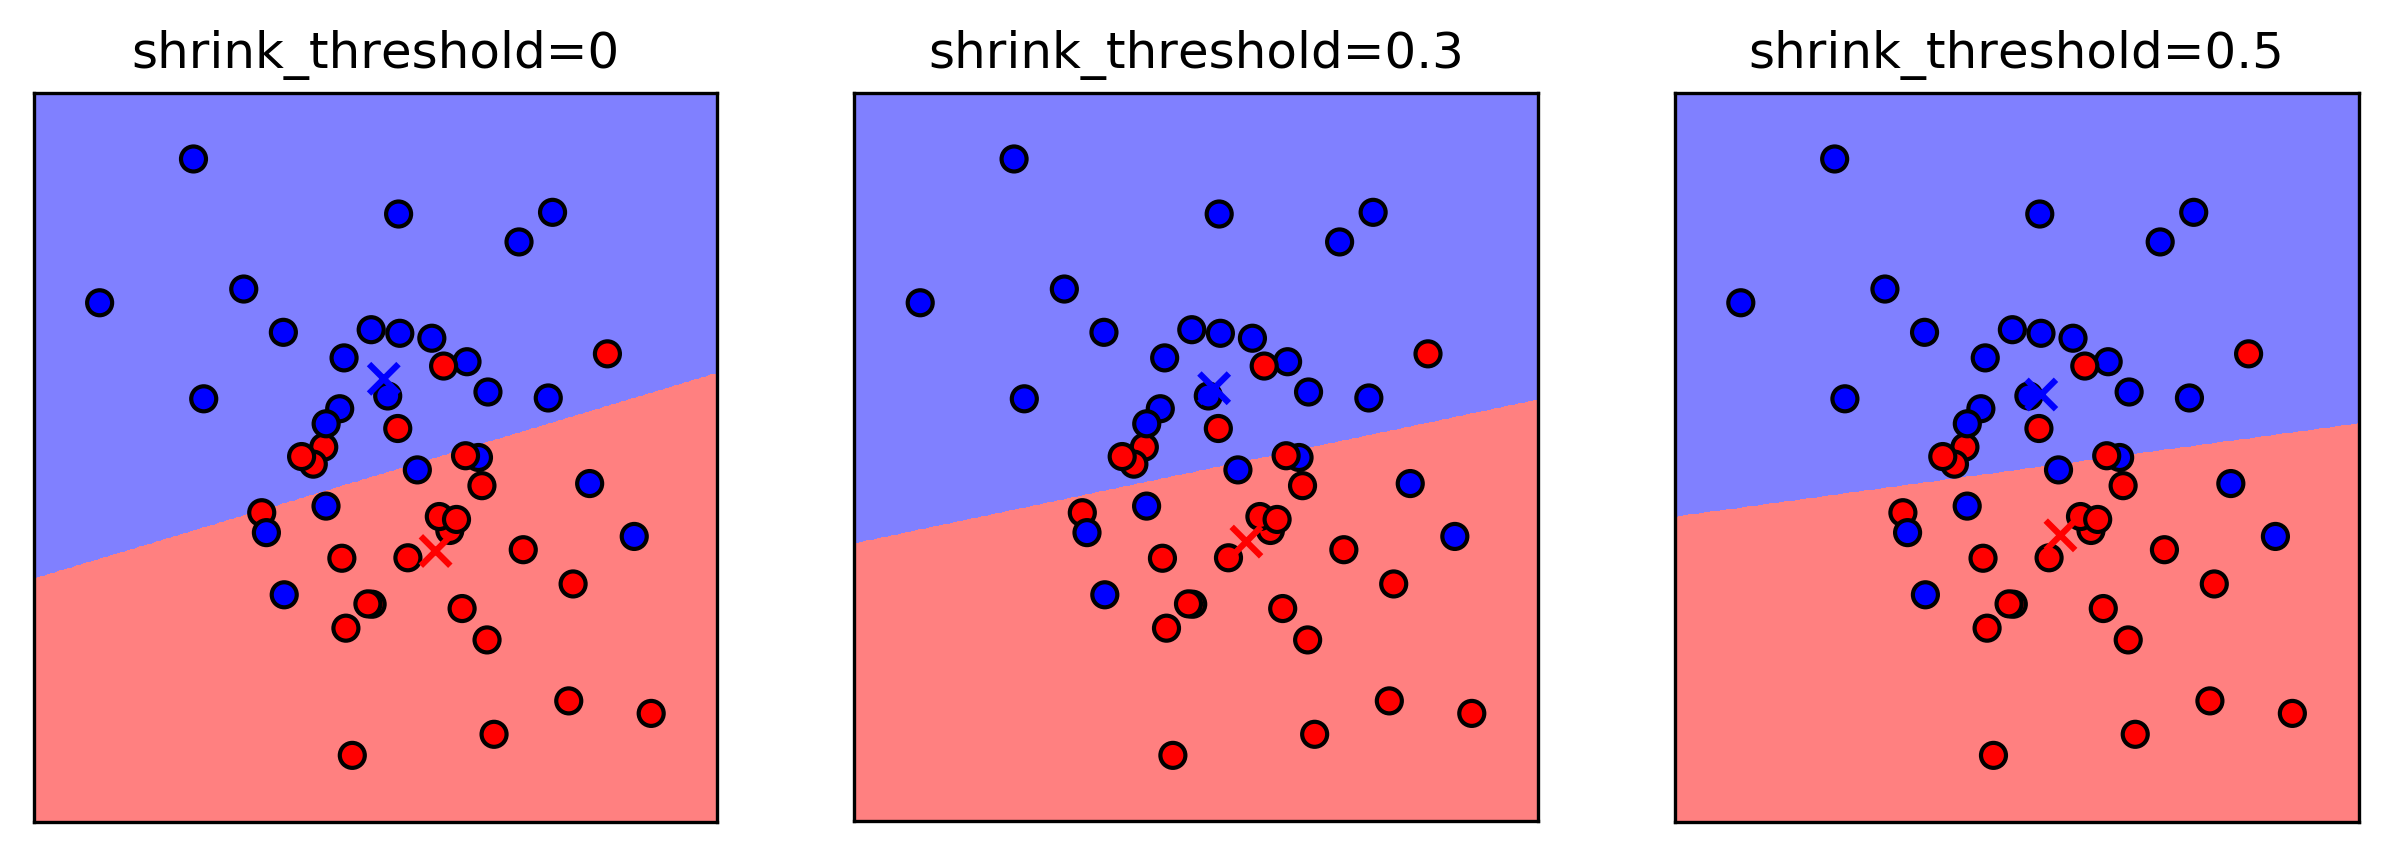
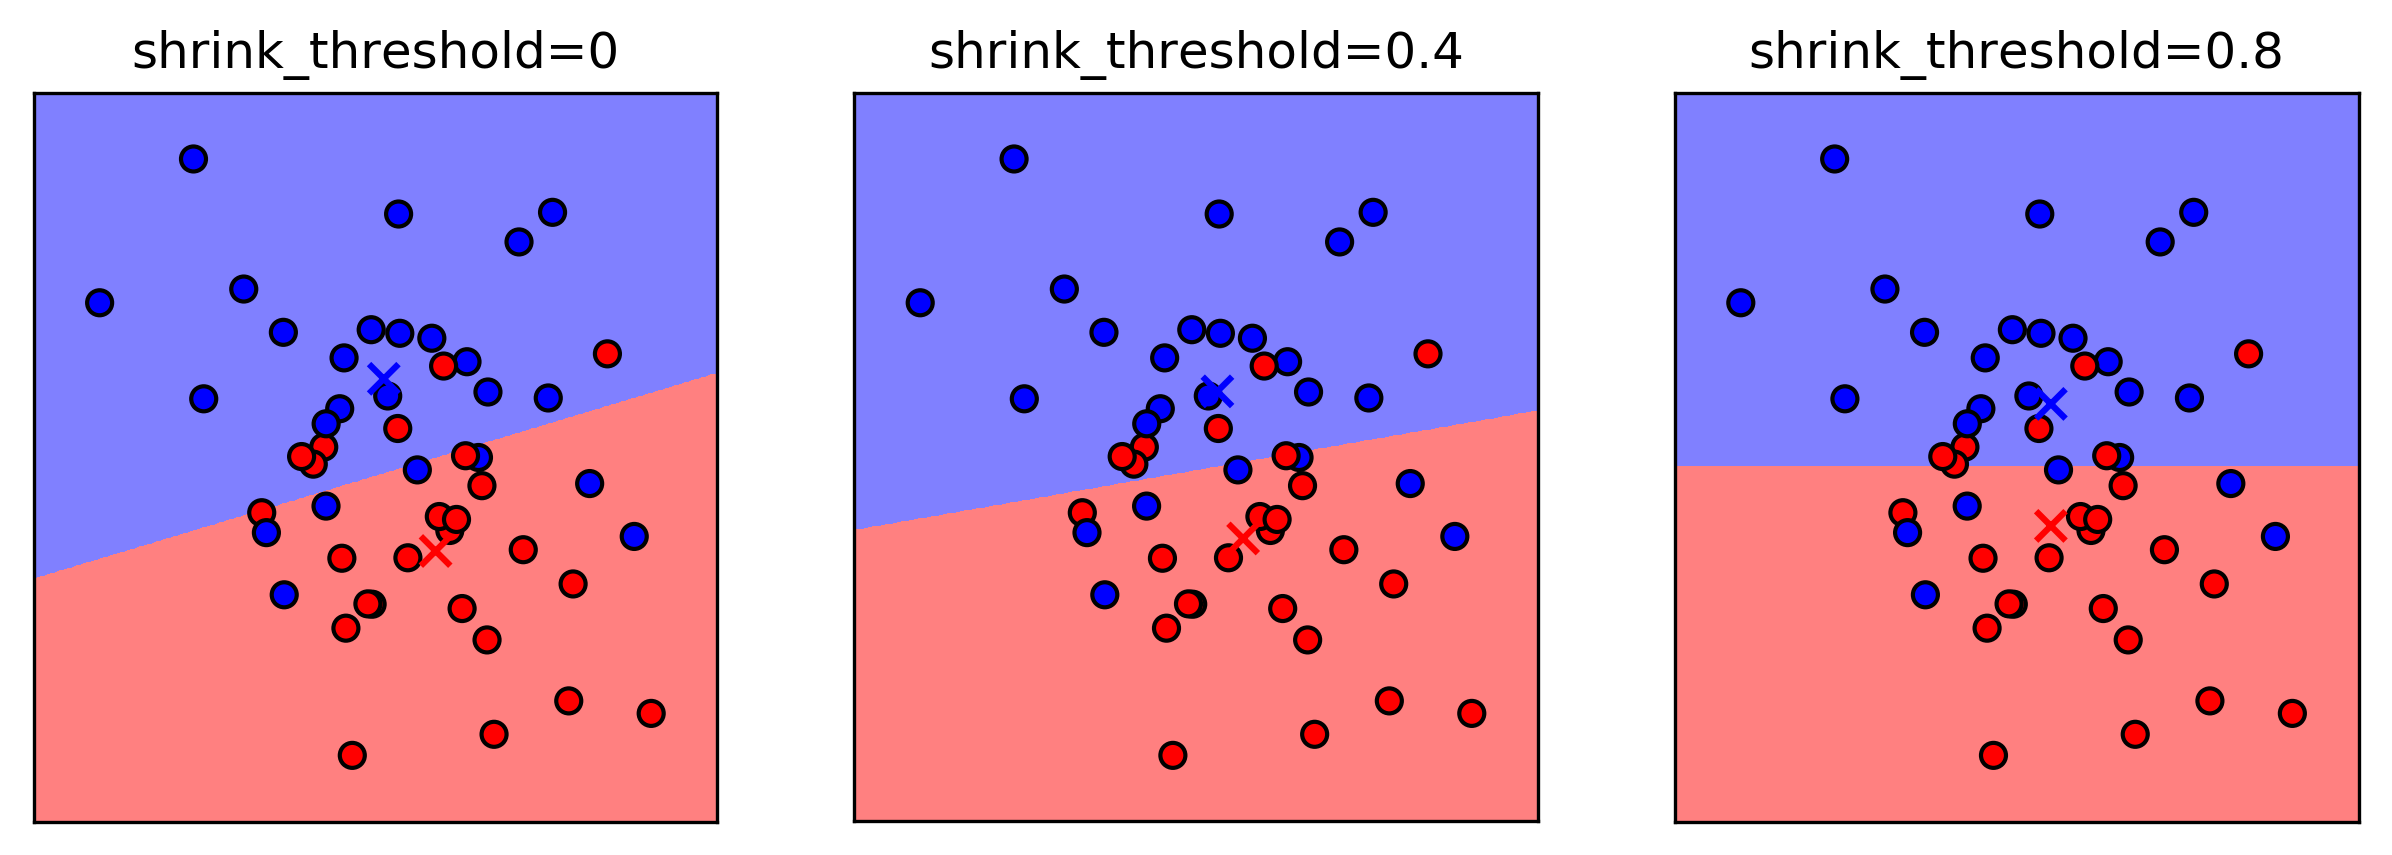
update image, some fixes for slide notes

diff --git a/slides/aml-04-012918-supervised-learning/index.html b/slides/aml-04-012918-supervised-learning/index.html
@@ -109,6 +109,9 @@
           float: left;
           width: 65%
       }
+      .invisible {
+          visibility: hidden
+      }
 
       .remark-code, .remark-inline-code { font-family: 'Ubuntu Mono'; }
     </style>
@@ -256,6 +259,7 @@ from sklearn.neighbors import KNeighborsClassifier
 knn = KNeighborsClassifier(n_neighbors=1)
 knn.fit(X_train, y_train)
 print("accuracy: {:.2f}".format(knn.score(X_test, y_test)))
+y_pred = knn.predict(X_test)
 ```
 accuracy: 0.77
 
@@ -274,16 +278,23 @@ such as here saying that we only want to look at the neirest neighbor.
 
 Then we can call the fit method to build the model, here knn.fit(X_train,
 y_train)
-All models in scikit-learn have a fit-method, and all the supervised
-ones take the data X and the outcomes y. The fit method builds the
-model and stores any estimated quantities in the model object, here knn.
-
+All models in scikit-learn have a fit-method, and all the supervised ones take
+the data X and the outcomes y. The fit method builds the model and stores any
+estimated quantities in the model object, here knn.  In the case of nearest
+neighbors, the `fit` methods simply remembers the whole training set.
 
 Then, we can use knn.score to make predictions on the test data, and
 compare them against the true labels y_test.
 
 For classification models, the score method will always compute
-accuracy. Who here has not seen this before?
+accuracy. 
+
+Just for illustration purposes, I also call the predict method here.
+The predict method is what's used to make predictions on any dataset.
+If we use the score method, it calls predict internally and then
+compares the outcome to the ground truth that's provided.
+
+Who here has not seen this before?
 ---
 class: center
 
@@ -349,8 +360,6 @@ If we increase the number of neighbors, the boundary between red and
 blue simplifies, and with 40 neighbors we mostly end up with a line.
 This also means that now many of the training data points would be
 labeled incorrectly.
-
-This is a very typical behavior, that I sketched in a schematic for you.
 ---
 class: center, spacious
 
@@ -368,6 +377,8 @@ You can see that for a single neighbor, the training score is 1 so perfect
 accuracy, but the test score is only 70%.  If we increase the number of
 neighbors we consider, the training score goes down, but the test score
 goes up, with an optimum at 19 and 21, but then both go down again.
+
+This is a very typical behavior, that I sketched in a schematic for you.
 ---
 class: center, spacious
 # Overfitting and Underfitting
@@ -375,7 +386,7 @@ class: center, spacious
 ![:scale 80%](images/overfitting_underfitting_cartoon_train.png)
 
 ???
-There is a cartoon version of how this chart looks in general, though
+here is a cartoon version of how this chart looks in general, though
 it's horizontally flipped to the one with saw for knn.
 This chart has accuracy on the y axis, and the abstract concept of model
 complexity on the x axis.
@@ -412,10 +423,12 @@ So going back to nearest neighbors, what parameters correspond to high
 model complexity and what to low model complexity? high n_neighbors =
 low complexity!
 ---
-class: center, spacious
+class: center
 # Nearest Centroid
 
-![:scale 40%](images/nearest_centroid_boundary.png)
+![:scale 35%](images/nearest_centroid_boundary.png)
+
+$$f(x) = \text{argmin}_{i \in Y} ||\bar{x}_i - x||$$
 
 ???
 Before we go to more techniques to find the right hyper parameters,
@@ -450,6 +463,8 @@ We use the train_test_split function to split the data into 75% training
 and 25% test data,
 import the nearest centroid model, fit it on the training set, and
 compute the accuracy on the test set.
+In this case, the fit method computes the mean or centroid of each class
+and stores it in the nc object, while for prediction 
 
 Questions so far?
 ---
@@ -474,21 +489,13 @@ makes sense ;)
 What that means is that if the centroids have an entry that is close to
 zero, this direction gets ignored.
 Here you can see different settings of the shrinking threshold. No
-shrinking, a threshold of .3 and a threshold of .5.
+shrinking, a threshold of .4 and a threshold of .8.
 Because the centers are less than .5 apart from the data mean, the last
 panel has a perfectly horizontal line.
 
 When do you think NC works better than KNN? High dimensions!
 ---
 # Computational Properties Centroids
-
-- fit: O(n * p)
-- memory: O(n_classes * p)
-- predict: O(n_classes * p)
-
-n = n_samples
-p = n_features
-
 ???
 I want to compare some computational properties of the nearest shrunken
 centroid and k nearest neighbors.
@@ -505,6 +512,51 @@ is computing the distance to each of them, which is the same. When is
 this slow? Basically never - in high dim with only few important, maybe
 trees could be better, but we could also shrink those dimensions away.
 
+--
+
+- fit: O(n * p)
+- memory: O(n_classes * p)
+- predict: O(n_classes * p)
+
+n = n_samples
+p = n_features
+
+---
+# Computational Properties Neighbors
+.left-column[
+## Naive
+- fit: no time
+- memory: O(n * p)
+- predict: O(n * p)
+]
+.invisible[.right-column[
+## Kd-tree
+- fit: O(p * n log n)
+- memory: O(n * p)
+- predict:
+- O(k * log(n))<br />
+  FOR FIXED p!
+]]
+.reset-column[
+n=n_samples
+p=n_features
+]
+
+???
+Ok, now for the k nearest neighbors. How would you implement this? (brute
+force or neighbors structure)
+When not using a structure: fit no time, memory is the whole dataset,
+and prediction requires comparing against all data points.
+If we create a kd-tree or ball tree?
+Fit takes O(n log n), memory is the same. Prediction might be faster in
+low dimensions.
+
+What’s bad about this?
+memory scales with data, prediction speed scales with data :-/
+
+Can have high complexity models though.
+When would you use one vs the other? Large datasets , high dimensions:
+use nearest centroid maybe.
 ---
 # Computational Properties Neighbors
 .left-column[
@@ -518,7 +570,7 @@ trees could be better, but we could also shrink those dimensions away.
 - fit: O(p * n log n)
 - memory: O(n * p)
 - predict:
-- O(k * log(n))
+- O(k * log(n))<br />
   FOR FIXED p!
 ]
 .reset-column[
@@ -562,7 +614,7 @@ Non-parametric models scale their complexity with data, such as nearest
 neighbors. More data here means more complex decision boundaries, and
 more numbers to store.
 Examples?
-Trees and forests and SVMs non-parametric, linear models parametric,
+Trees and forests and kernel SVMs are non-parametric, linear models parametric,
 neural nets parametric (arguably, since they have sooo many parameters).
 
 ---
@@ -627,7 +679,7 @@ print("Test: {:.3f}".format(knn.score(X_test, y_test)))
 ```
 ```
 Validation: 0.972
-Test: 0.951
+Test: 0.965
 ```
 ]
 ???
@@ -667,19 +719,24 @@ print("Test: {:.3f}".format(test[np.argmax(val)]))
 Validation: 1.000
 Test: 0.958
 ```
+
+???
 So now let me propose a silly way to tune my classifier.
 I add random noise to my training set for fitting.
 And I repeat that 1000 times, and I check which of these thousand runs
 has the best performance on the validation set. That particular run has
-99.1% percent accuracy, much better than before.
-If I test the same set on the test set, I get a much lower accuracy then
+100% percent accuracy, quite a bit better than before.
+If I would use the same set to estimate how well my model is, I would think
+I created a perfect model and I should write a paper about building much
+better models by using noise.
+
+But if I test the same model on the test set, I get a lower accuracy then
 before: the noise I added was good for the validation set, but not the
 test set.
-If I try this often enough, I can find noise that will give me 100% on the
-validation set, but that doesn’t mean it will be good for any new data.
+The lesson is: If I try something often enough, be it parameters or noise, at some point I'll
+get better performance on the validation set, but that doesn’t mean it will be good for any new data.
 By selecting the best among many you introduce a bias, and the validation
 accuracy is not a good measure of generalization performance any more.
-???
 
 ---
 
@@ -690,7 +747,7 @@ accuracy is not a good measure of generalization performance any more.
 ???
 The simplest way to combat this overfitting to the test set is by using
 a three-fold split of the data, into a training, a validation and a
-test set.
+test set as we just did.
 We use the training set for model building, the validation set for
 parameter selection and the test set for a final evaluation of the model.
 So how many models should you try out on the test set? Only one! Ideally
